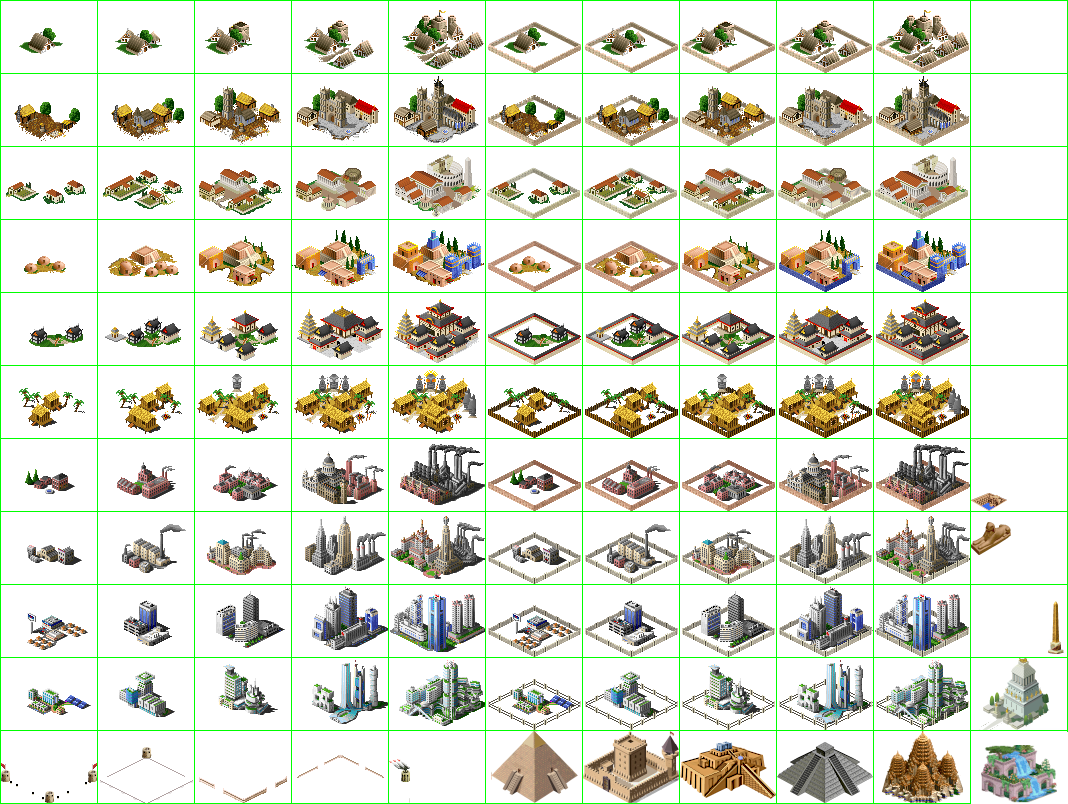
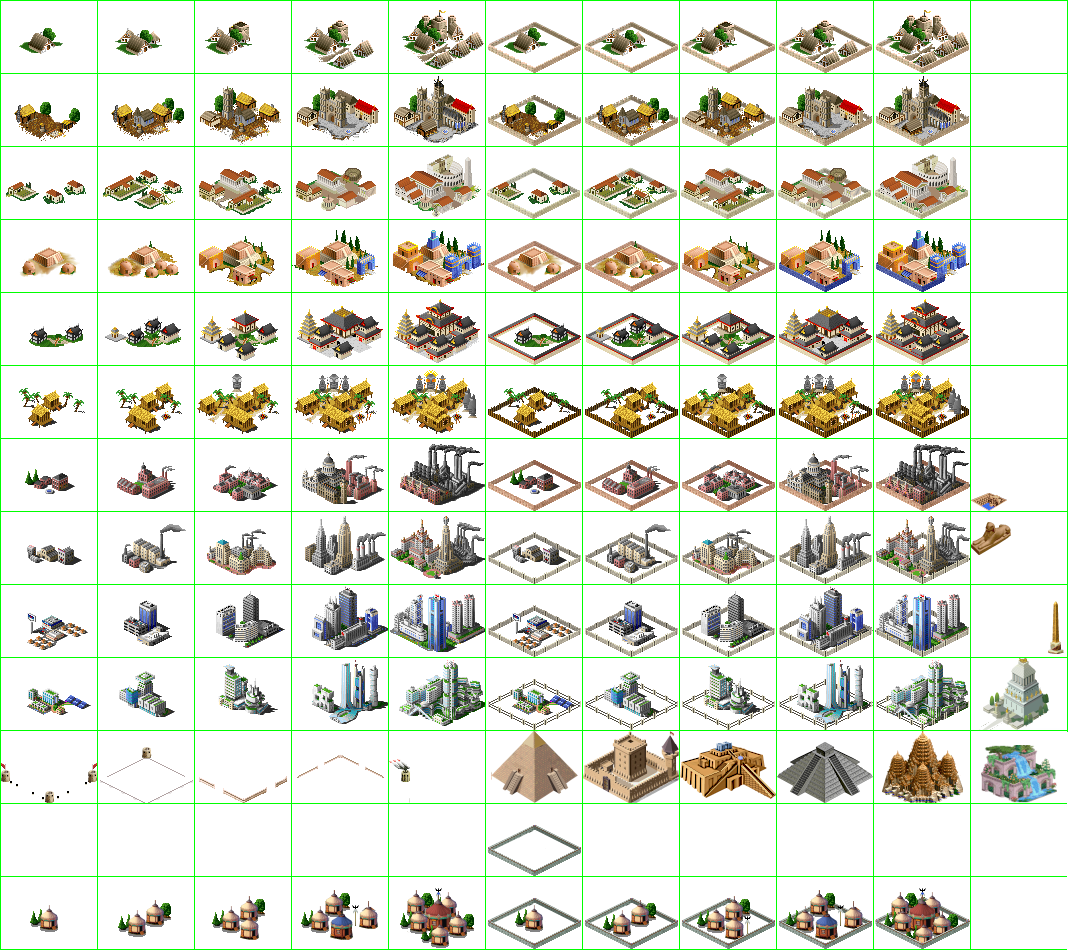
Add new city style "Steppes" - Complete Template for adding new style.
...includes sample change of one nation ruleset also, mongol.ruleset

diff --git a/freeciv-web/src/main/webapp/javascript/pregame.js b/freeciv-web/src/main/webapp/javascript/pregame.js
@@ -566,16 +566,16 @@ function render_city_style_list()
   /* prepare a list of city styles. */
   var city_style_html = "<b>City Styles:</b><br>";
   for (var style_id in city_rules) {
-    if (style_id > 5) continue;
     var pstyle = city_rules[style_id];
+    if (style_id > 6 || pstyle['rule_name'] == "Industrial") continue;
     city_style_html += "<canvas id='city_style_" + style_id 
           + "' data-style-id='" + style_id + "' width='96' height='72' style='cursor: pointer;'></canvas><br>"
           + pstyle['rule_name'] + "<br>";
   }
   $("#nation_style_choices").html(city_style_html);
   for (var style_id in city_rules) {
-    if (style_id > 5) continue;
     var pstyle = city_rules[style_id];
+    if (style_id > 6 || pstyle['rule_name'] == "Industrial") continue;
     var pcitystyle_canvas = document.getElementById('city_style_' + style_id);
     if (pcitystyle_canvas == null) continue;
     var ctx = pcitystyle_canvas.getContext("2d");
